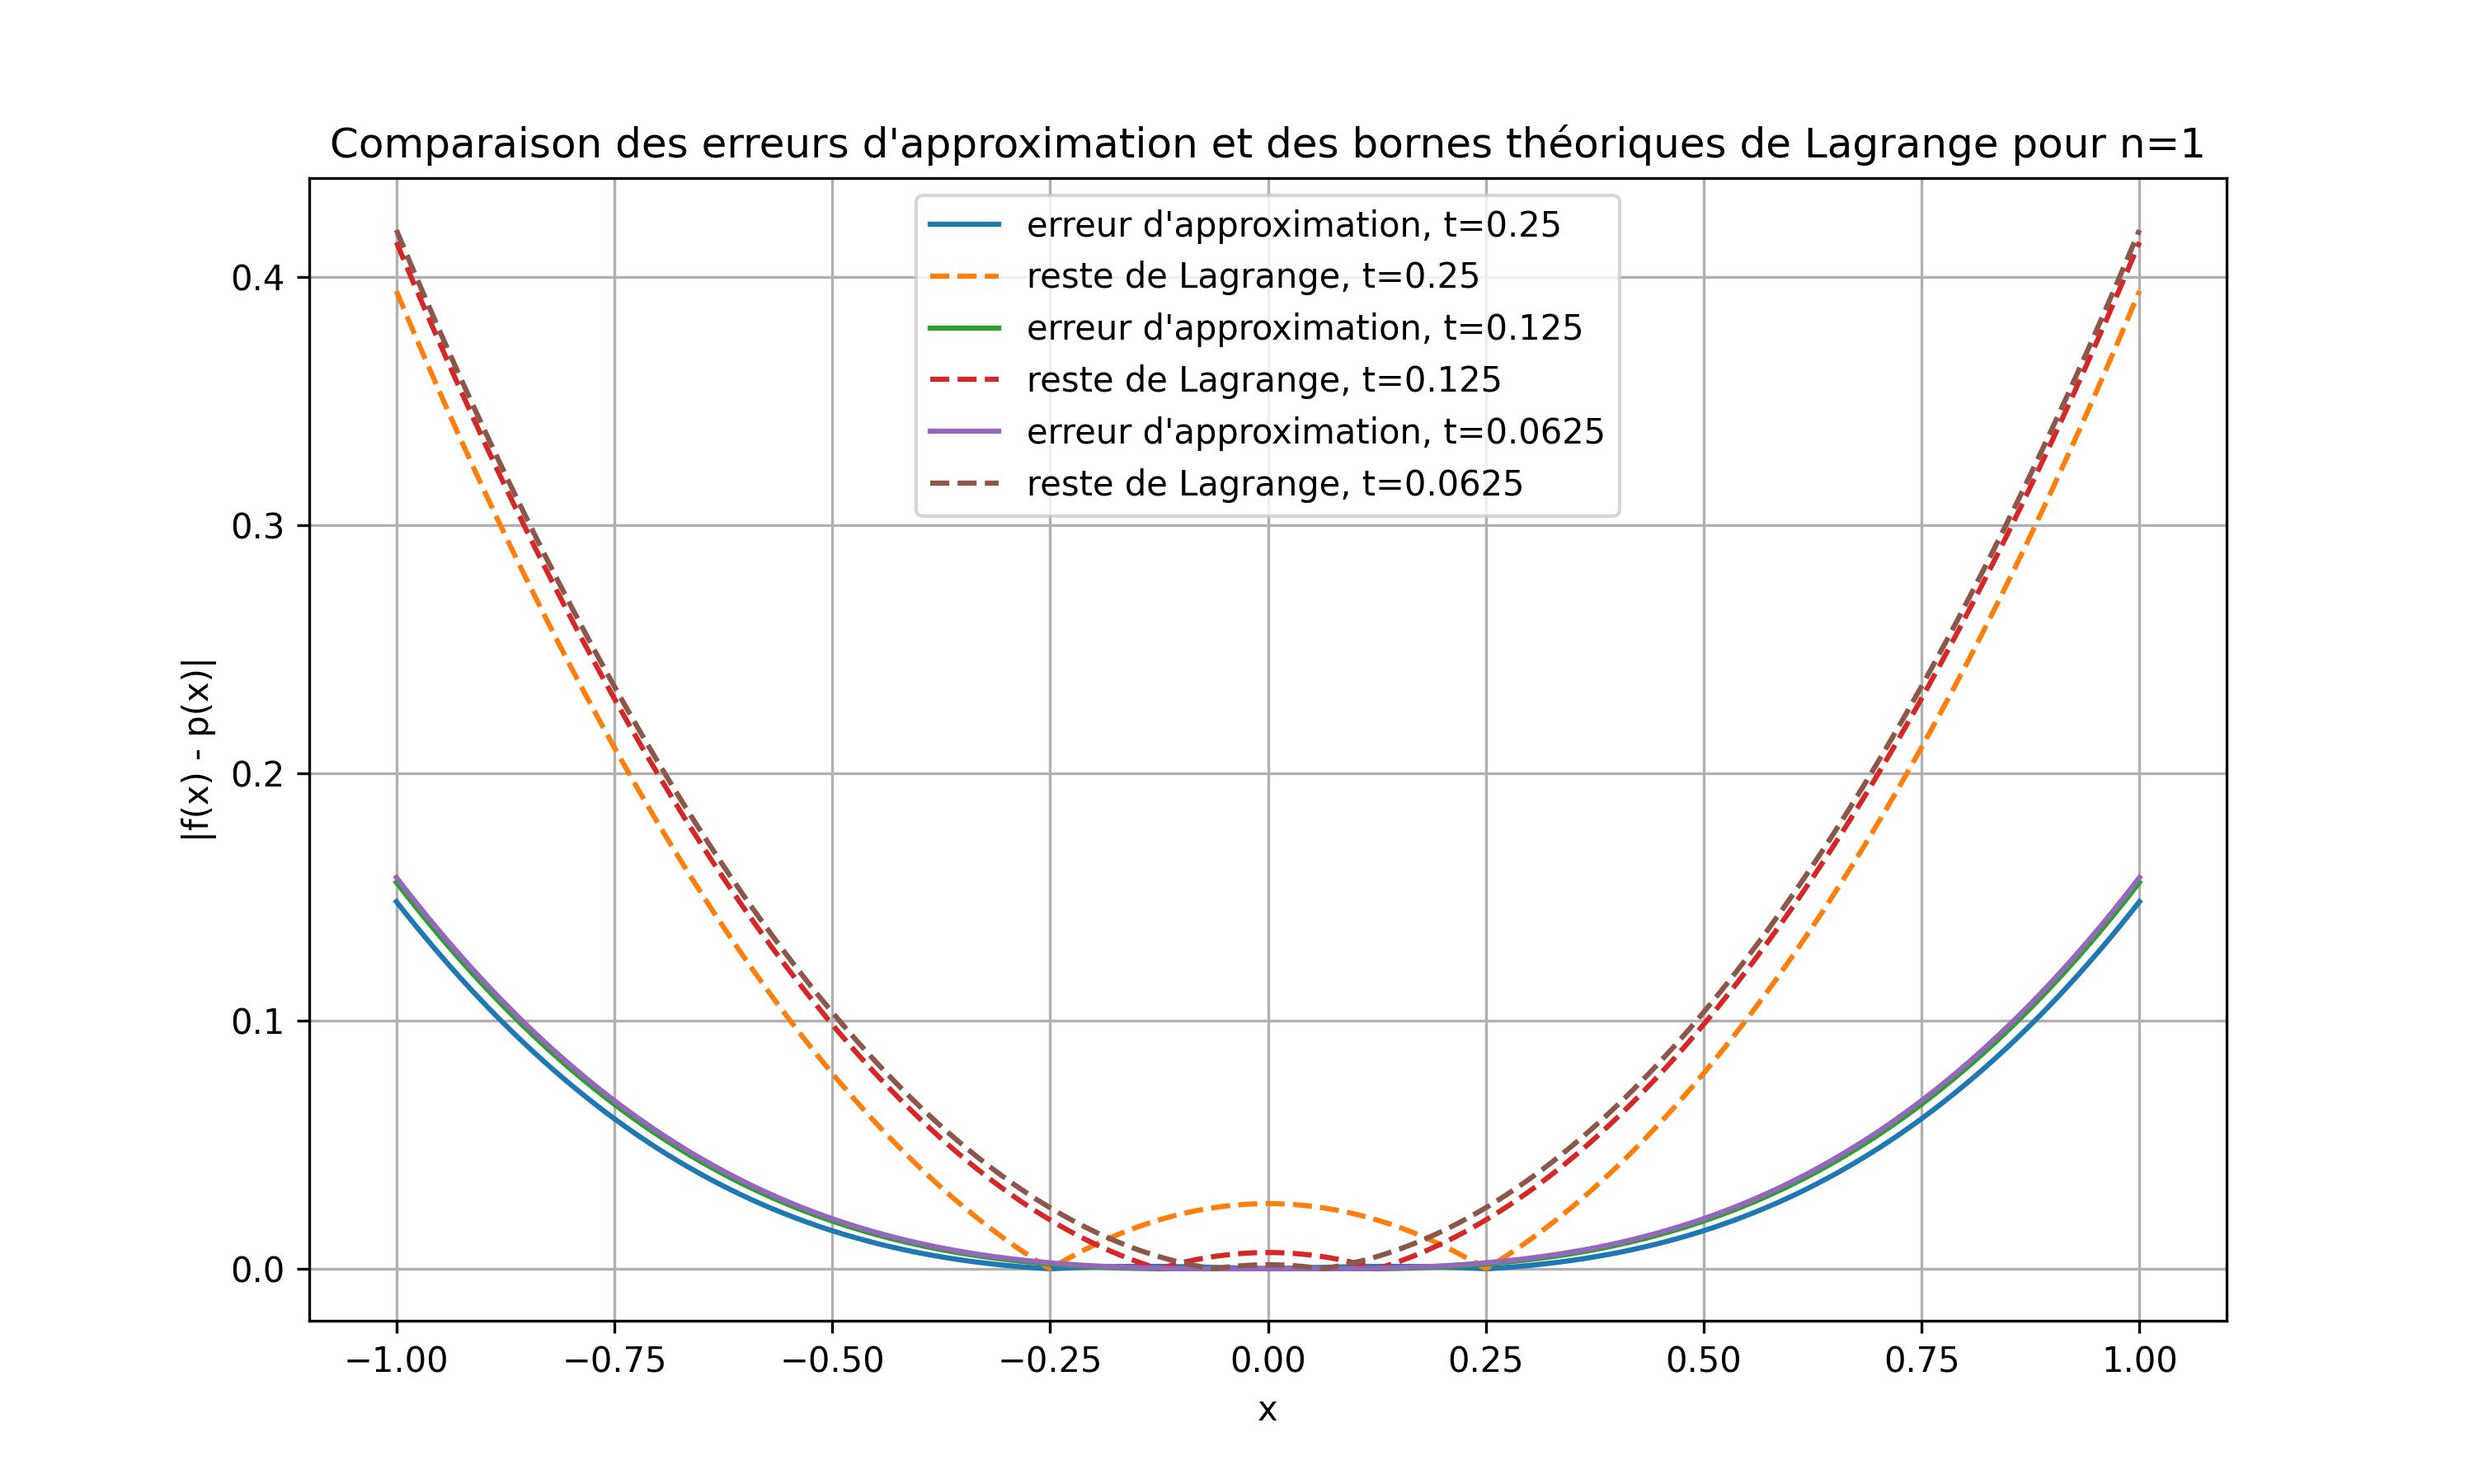
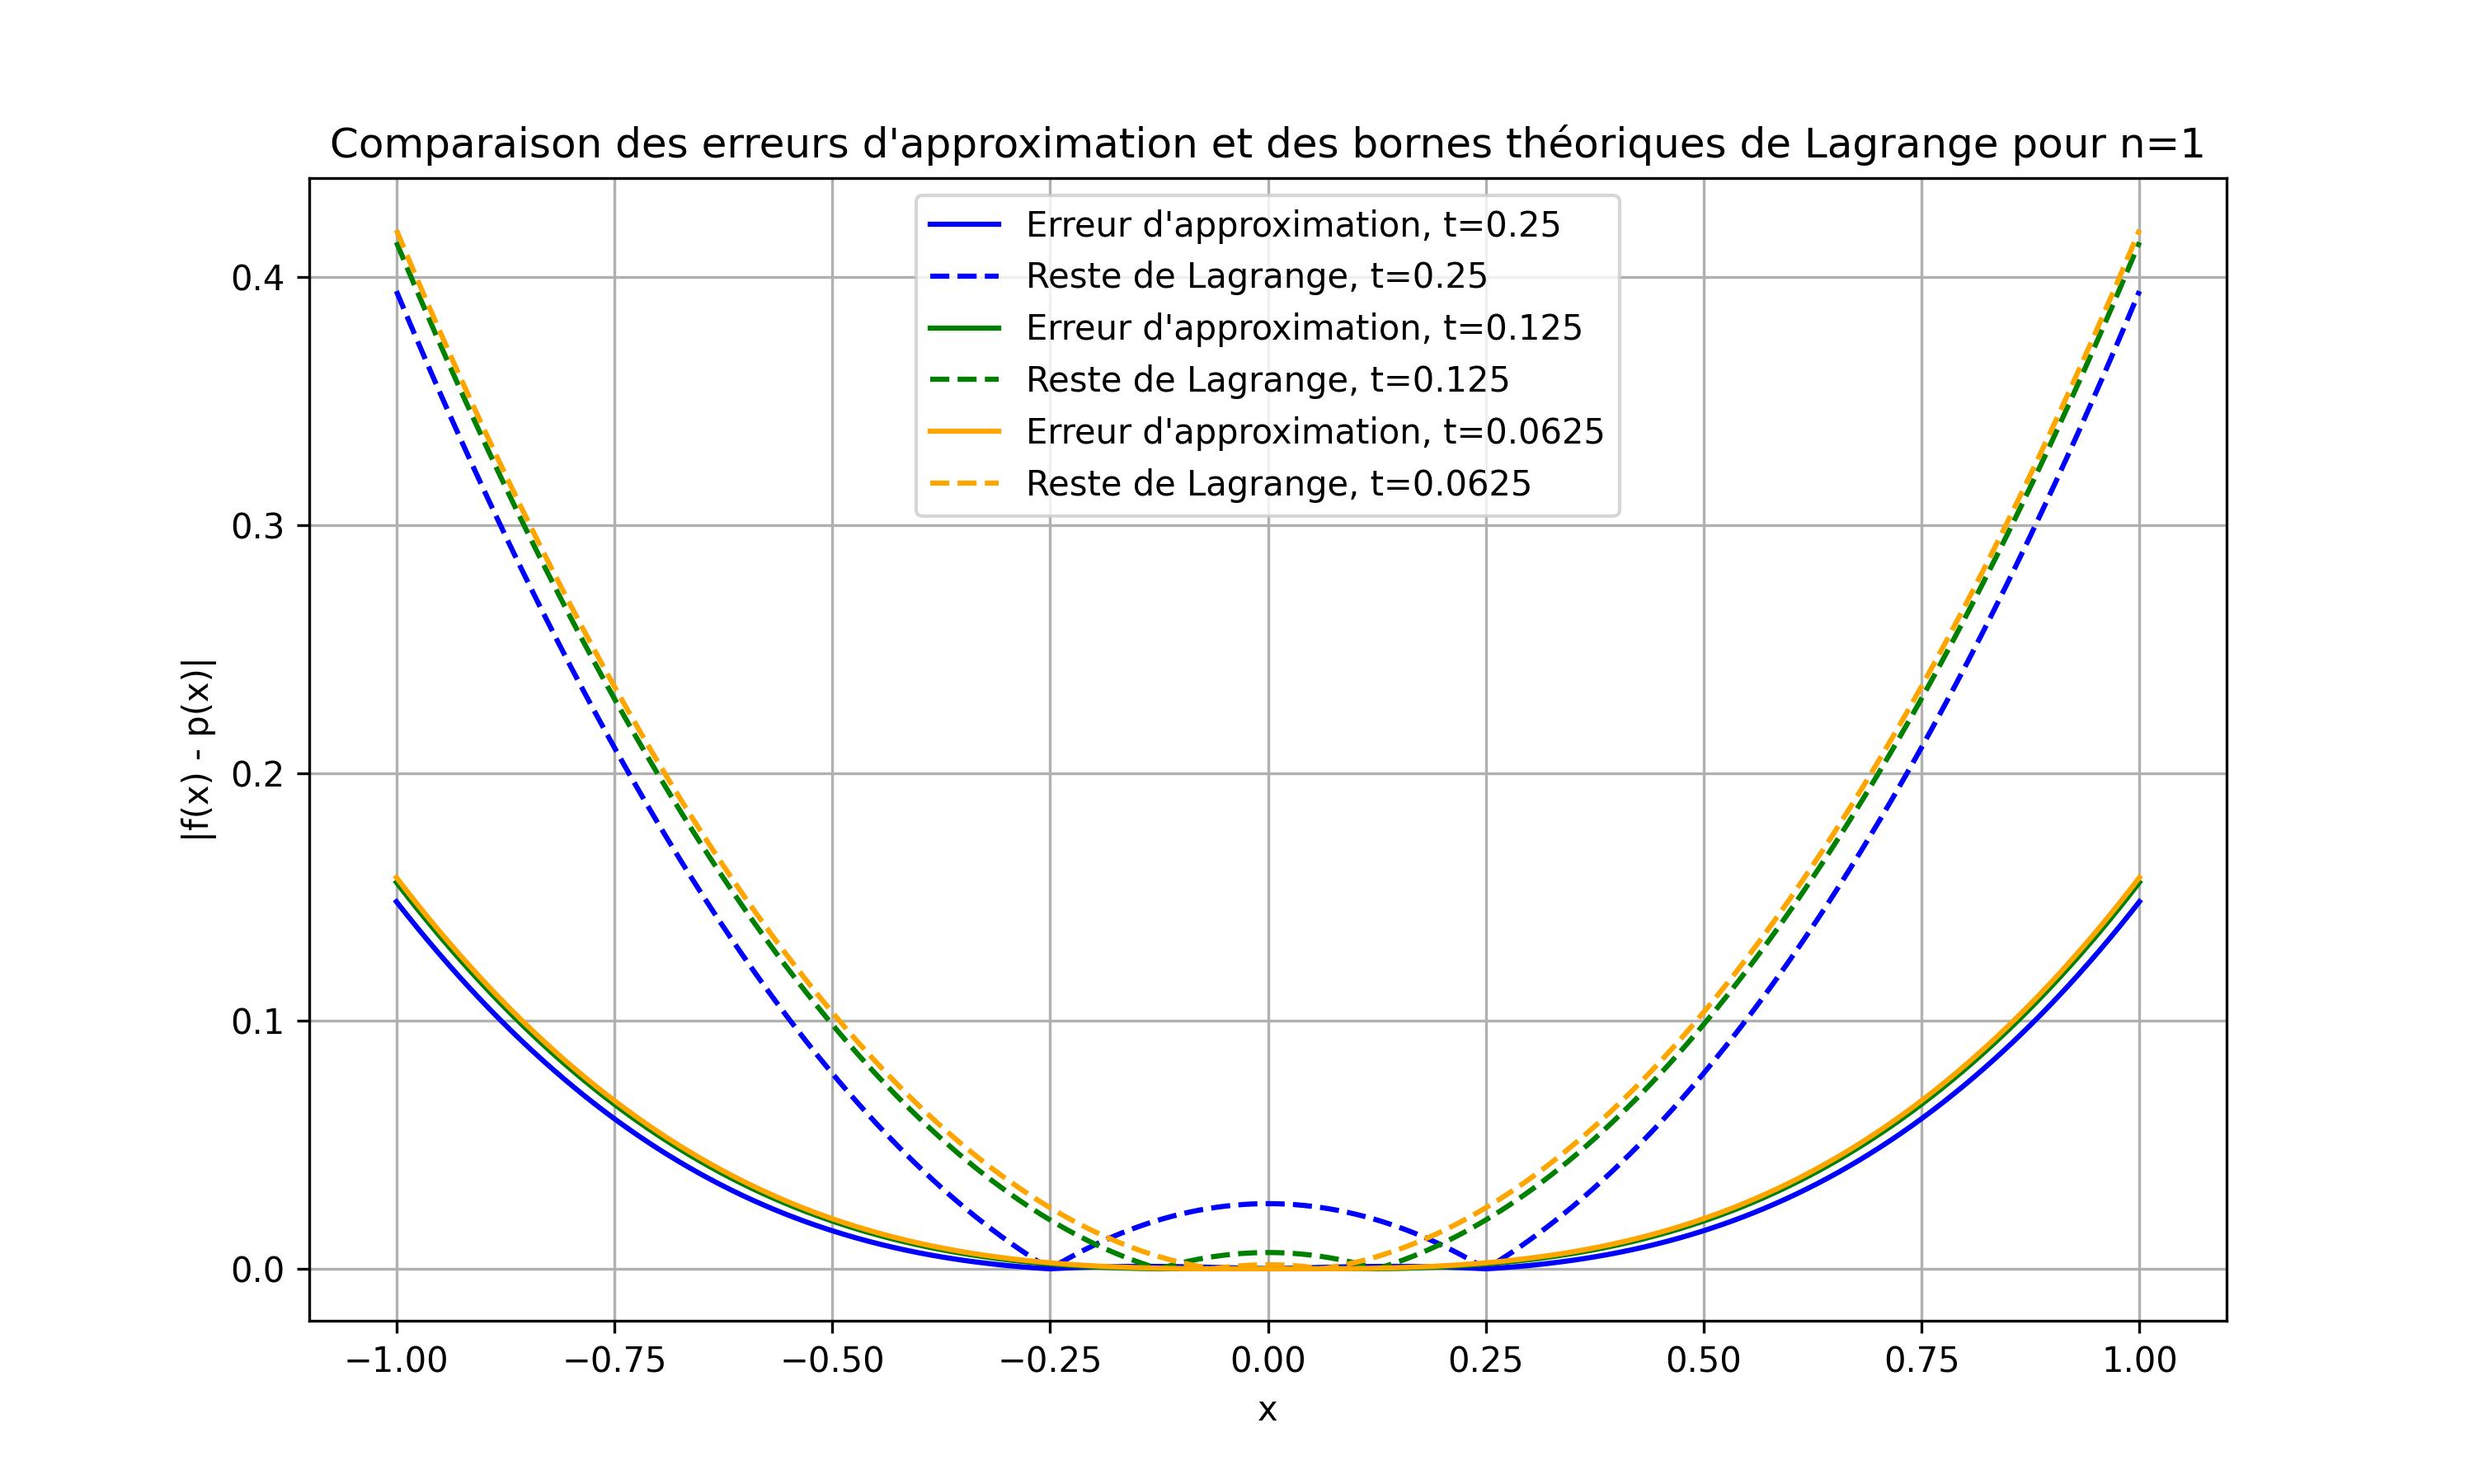
Add files via upload

diff --git a/Projet LMAT1351 1.3.py b/Projet LMAT1351 1.3.py
@@ -84,32 +84,45 @@ def Wnplusone(nodes):
     return lambda x: mpmath.fprod([(x - nodes[j]) for j in range(len(nodes))])
 
 # Tracés des erreurs d'approximation
+colors = ['blue', 'green', 'orange', 'purple']
+
 for n in range(1, 5):
     plt.figure(figsize=(10, 6))
-    for tcas in t:
+    
+    for idx, tcas in enumerate(t):
         x = np.linspace(-1, 1, 1000)
+        
+        # Création des noeuds pour l'interpolation de Newton
         nodes = [mpmath.mpf(val) for val in np.linspace(-tcas, tcas, n + 1)]
+        
+        # Calcul des bases et des coefficients de Newton pour l'interpolation
         basis = getNewtonBasis(nodes)
         coef = getNewtonCoefficients(nodes, mpmath.sin)
         
+        # Fonction d'interpolation de Newton construite à partir des bases et coefficients
         NewtonInter = lambda x: sum(c * b(x) for c, b in zip(coef, basis))
         NewtonVals = [NewtonInter(mpmath.mpf(val)) for val in x]
 
+        # Calcul de l'erreur d'approximation pour chaque point x
         error_vals = [abs(mpmath.sin(mpmath.mpf(val)) - NewtonInter(mpmath.mpf(val))) for val in x]
         
-        Sine_n_derivative = lambda x: mpmath.diff(mpmath.sin, x, n+1)
-        max_derivative = max([abs(Sine_n_derivative(val)) for val in x])
-        factorial = mpmath.factorial(n + 1)
-        lagrange_bound = [(max_derivative / factorial) * abs(Wnplusone(nodes)(val)) for val in x]
+        # Calcul de la borne de Lagrange pour l'erreur théorique
+        Sine_n_derivative = lambda x: mpmath.diff(mpmath.sin, x, n + 1)  # Dérivée n+1-ème de sin(x)
+        max_derivative = max([abs(Sine_n_derivative(val)) for val in x])  # Borne sup de la dérivée
+        factorial = mpmath.factorial(n + 1)  # Facteur (n+1)!
+        lagrange_bound = [(max_derivative / factorial) * abs(Wnplusone(nodes)(val)) for val in x]  # Formule de la borne
         
-        plt.plot(x, error_vals, label=f"erreur d'approximation, t={tcas}", linestyle="solid")
-        plt.plot(x, lagrange_bound, label=f"reste de Lagrange, t={tcas}", linestyle="dashed")
+        # Tracés de l'erreur d'approximation et de la borne de Lagrange pour chaque valeur de t
+        color = colors[idx]
+        plt.plot(x, error_vals, label=f"Erreur d'approximation, t={tcas}", linestyle="solid", color=color)
+        plt.plot(x, lagrange_bound, label=f"Reste de Lagrange, t={tcas}", linestyle="dashed", color=color)
+        
         plt.xlabel("x")
         plt.ylabel("|f(x) - p(x)|")
         plt.legend()
         plt.grid(True)
 
-
     plt.title(f"Comparaison des erreurs d'approximation et des bornes théoriques de Lagrange pour n={n}")
-    plt.savefig(f"erreur_n_{n}.jpg", format='jpg', dpi=300)  # dpi pour la qualité
+    plt.savefig(f"erreur_n_{n}.jpg", format='jpg', dpi=300)
     plt.close()
+
